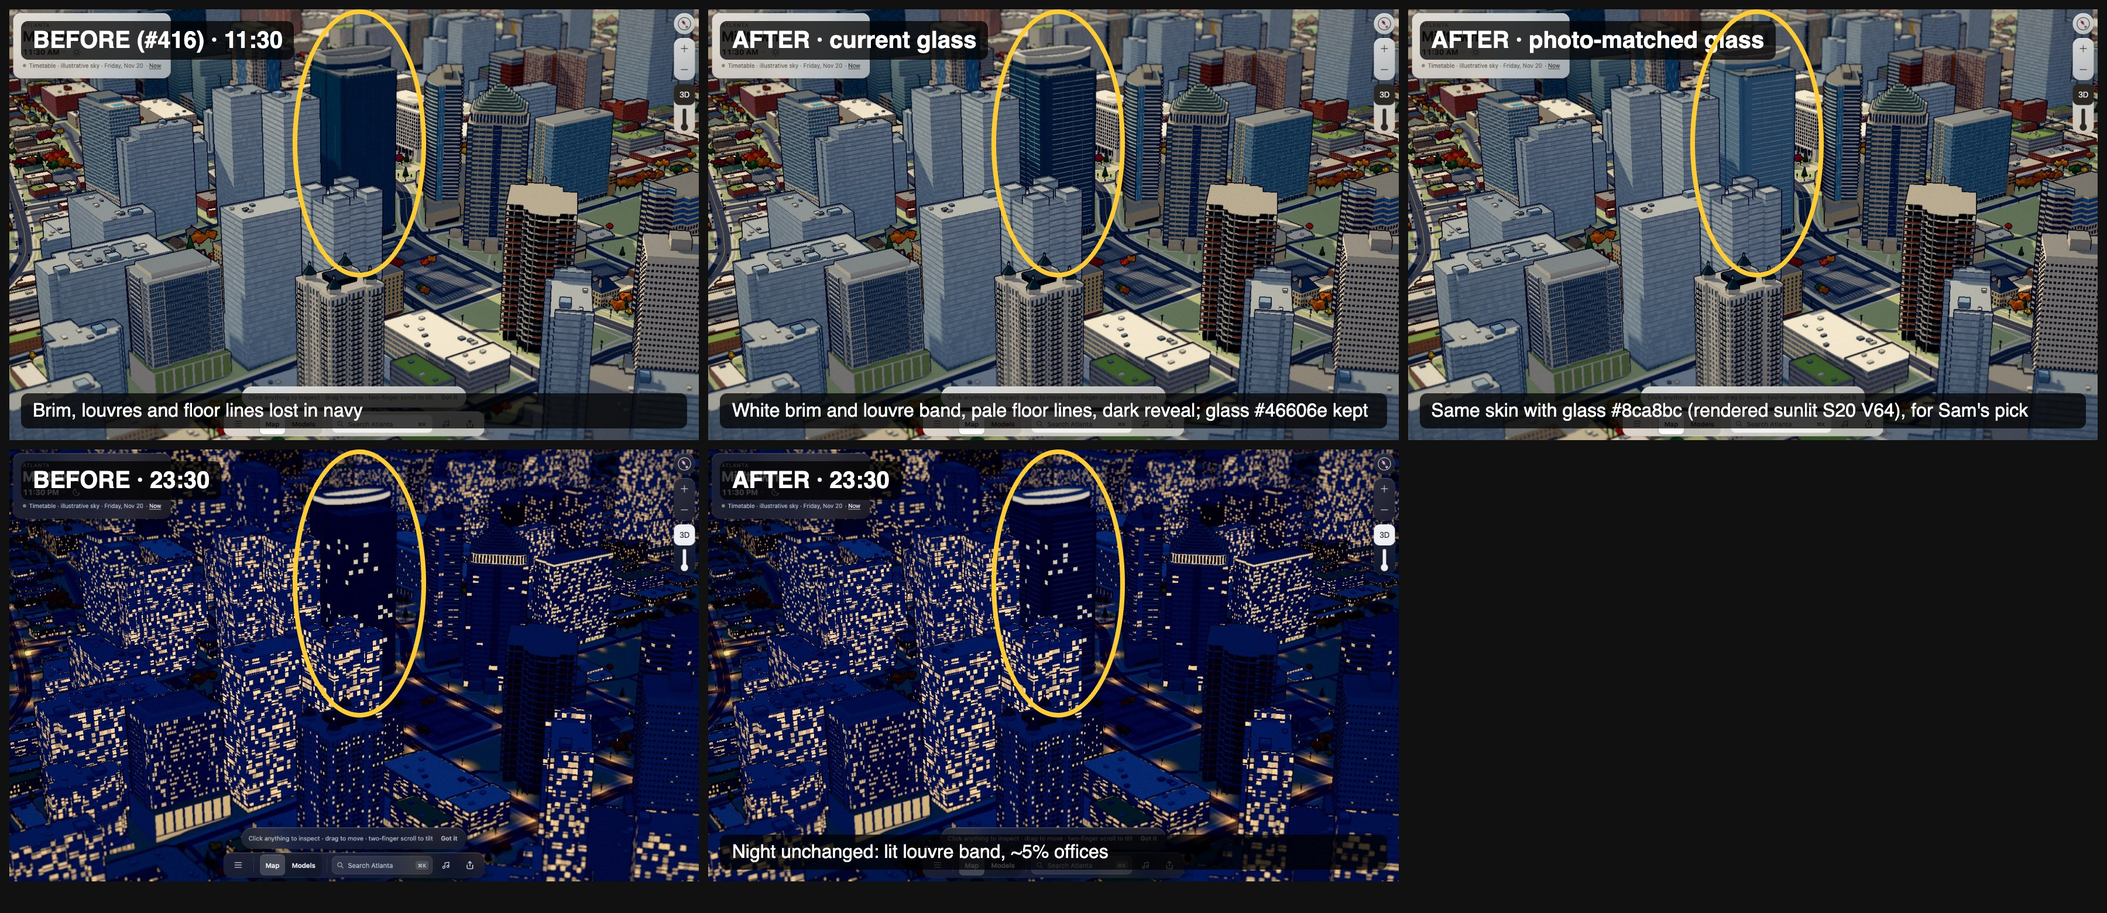
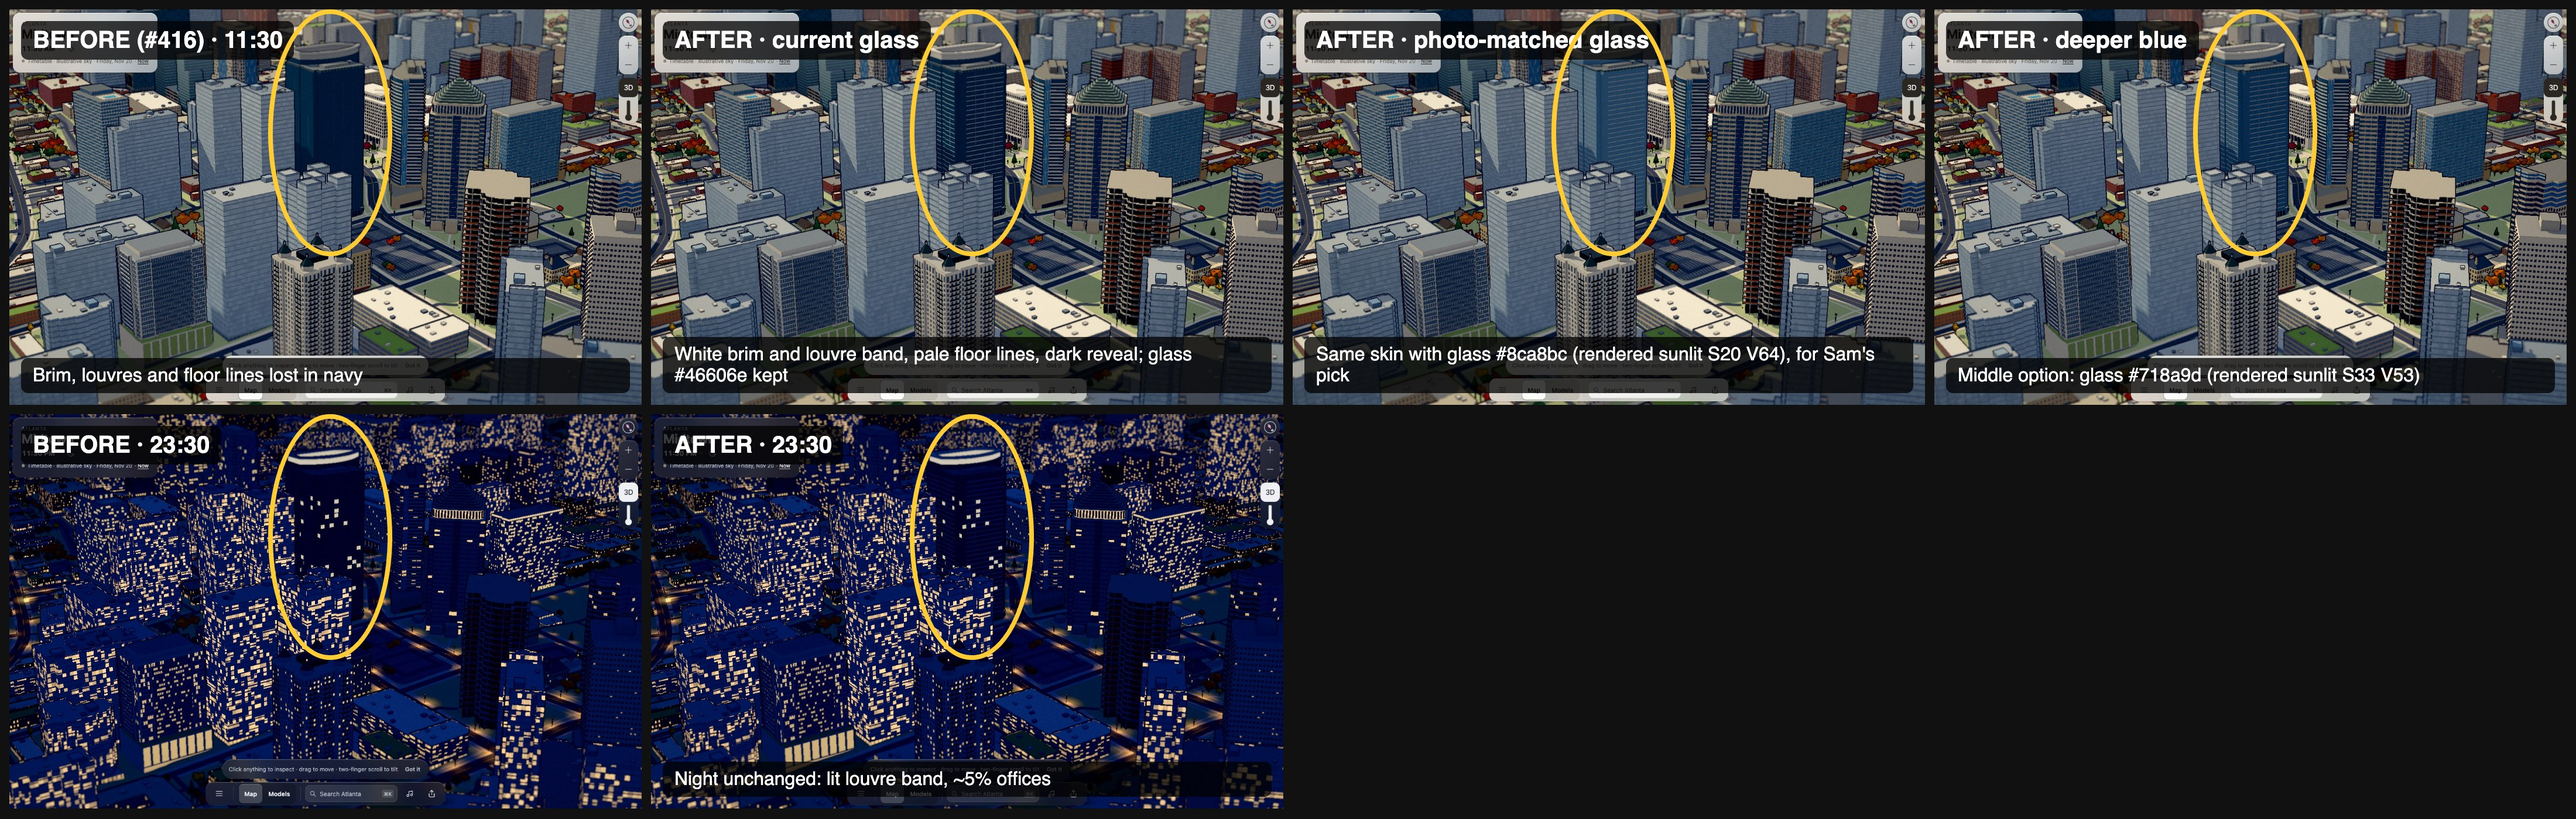
1075 Peachtree rework: add the deeper-blue middle glass option for Sam's pick

diff --git a/docs/log/ui/1075-peachtree/README.md b/docs/log/ui/1075-peachtree/README.md
@@ -86,7 +86,8 @@ Glass, for Sam's palette pick (rendered sunlit, 11:30 high tier, `820,-3335,0,78
 |---|---|---|---|---|
 | Current glass (kept in code) | `#46606e` | 201 | 74 | 35 |
 | Photo-matched glass (shown only) | `#8ca8bc` | 192 | 20 | 64 |
+| Deeper blue, middle option (shown only) | `#718a9d` | 200 | 33 | 53 |
 
-The photo-matched value follows the photos' light, reflective sky-blue and is inside the rule (V ≥ 62 → S ≤ 30).
+The photo-matched value follows the photos' light, reflective sky-blue and is inside the rule (V ≥ 62 → S ≤ 30). At 800 m it sits close to the generic pale-blue towers, so the lead asked for a middle option. The deeper blue renders at S 33 and V 53, inside the cap and more distinct from its neighbours. The current glass, at S 74, is over the S ≤ 36 cap.
 
 [Before / current / photo-matched](rework-compare.jpg) · [Four sides at 400 m](rework-four-sides.jpg)
